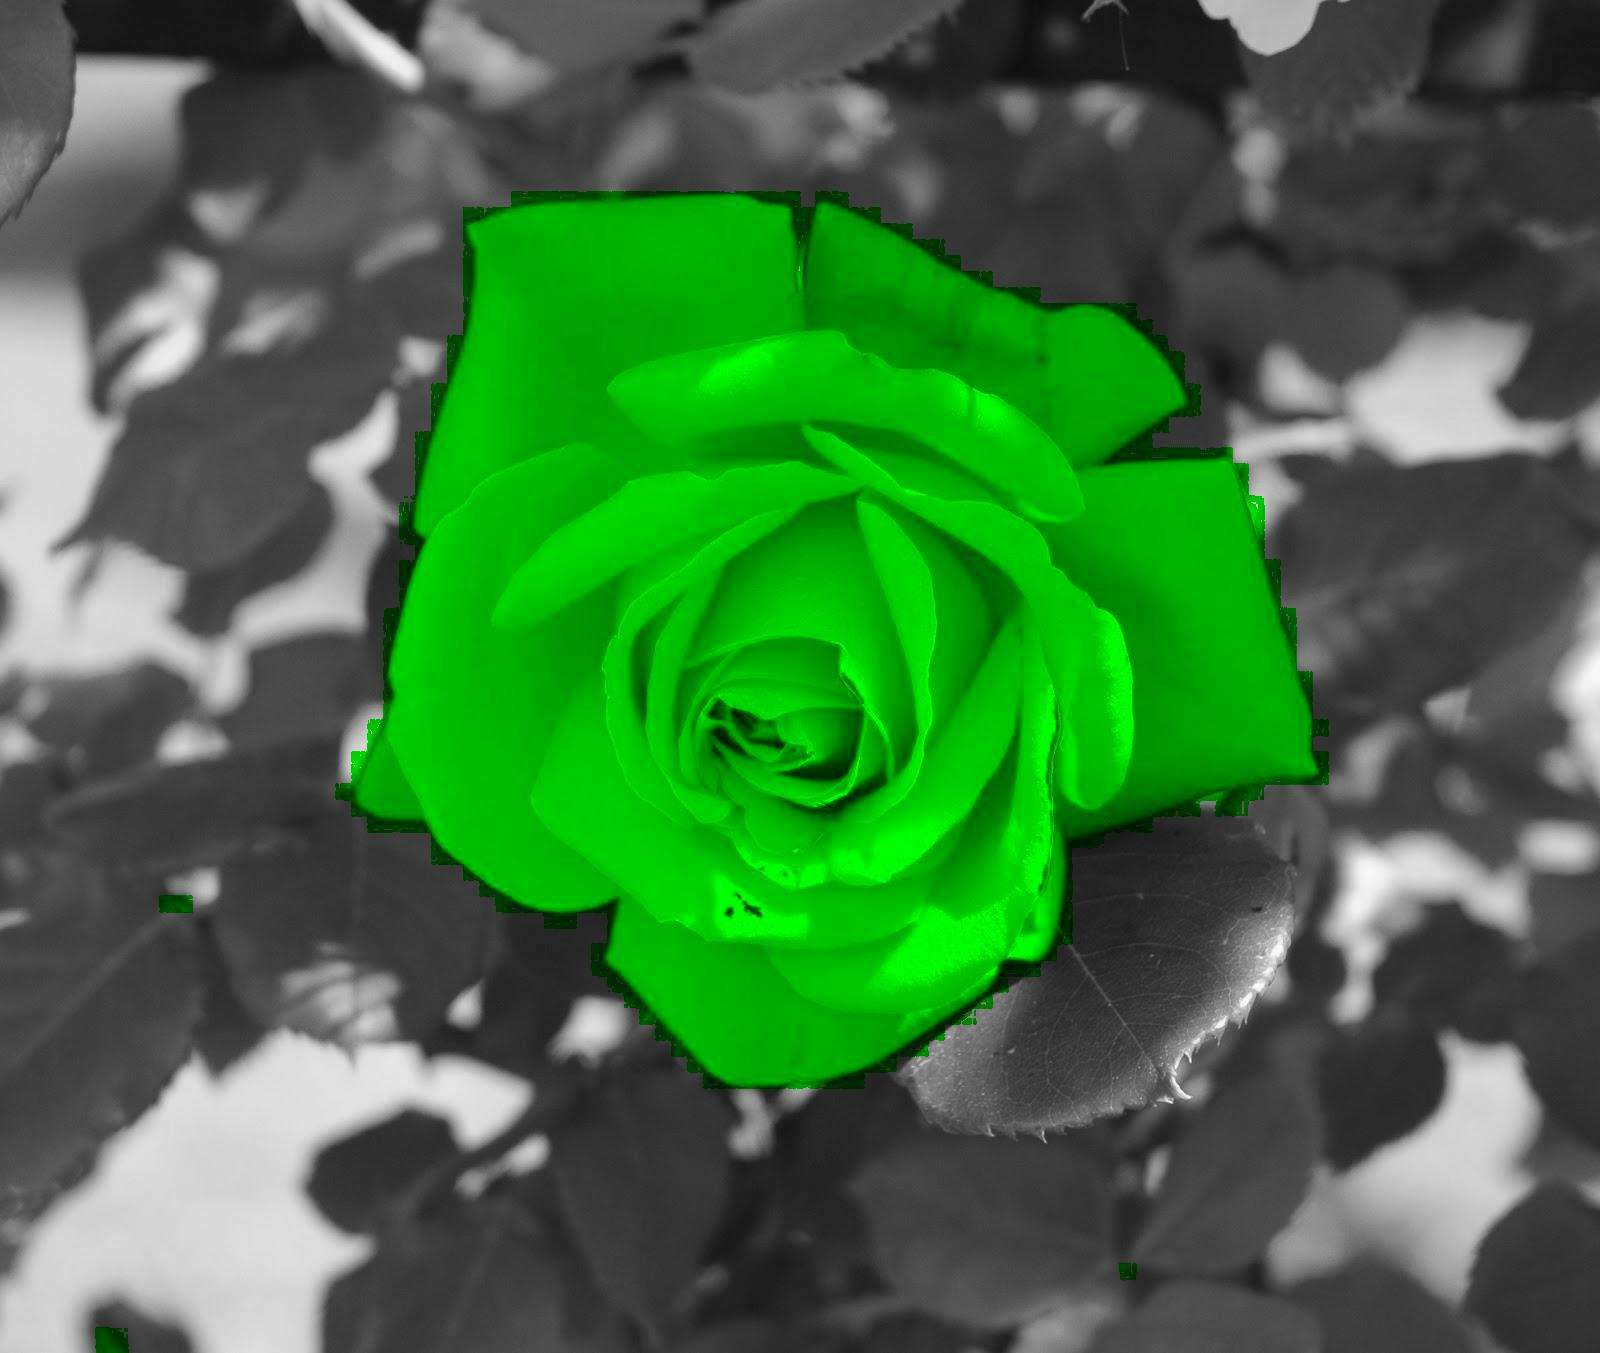
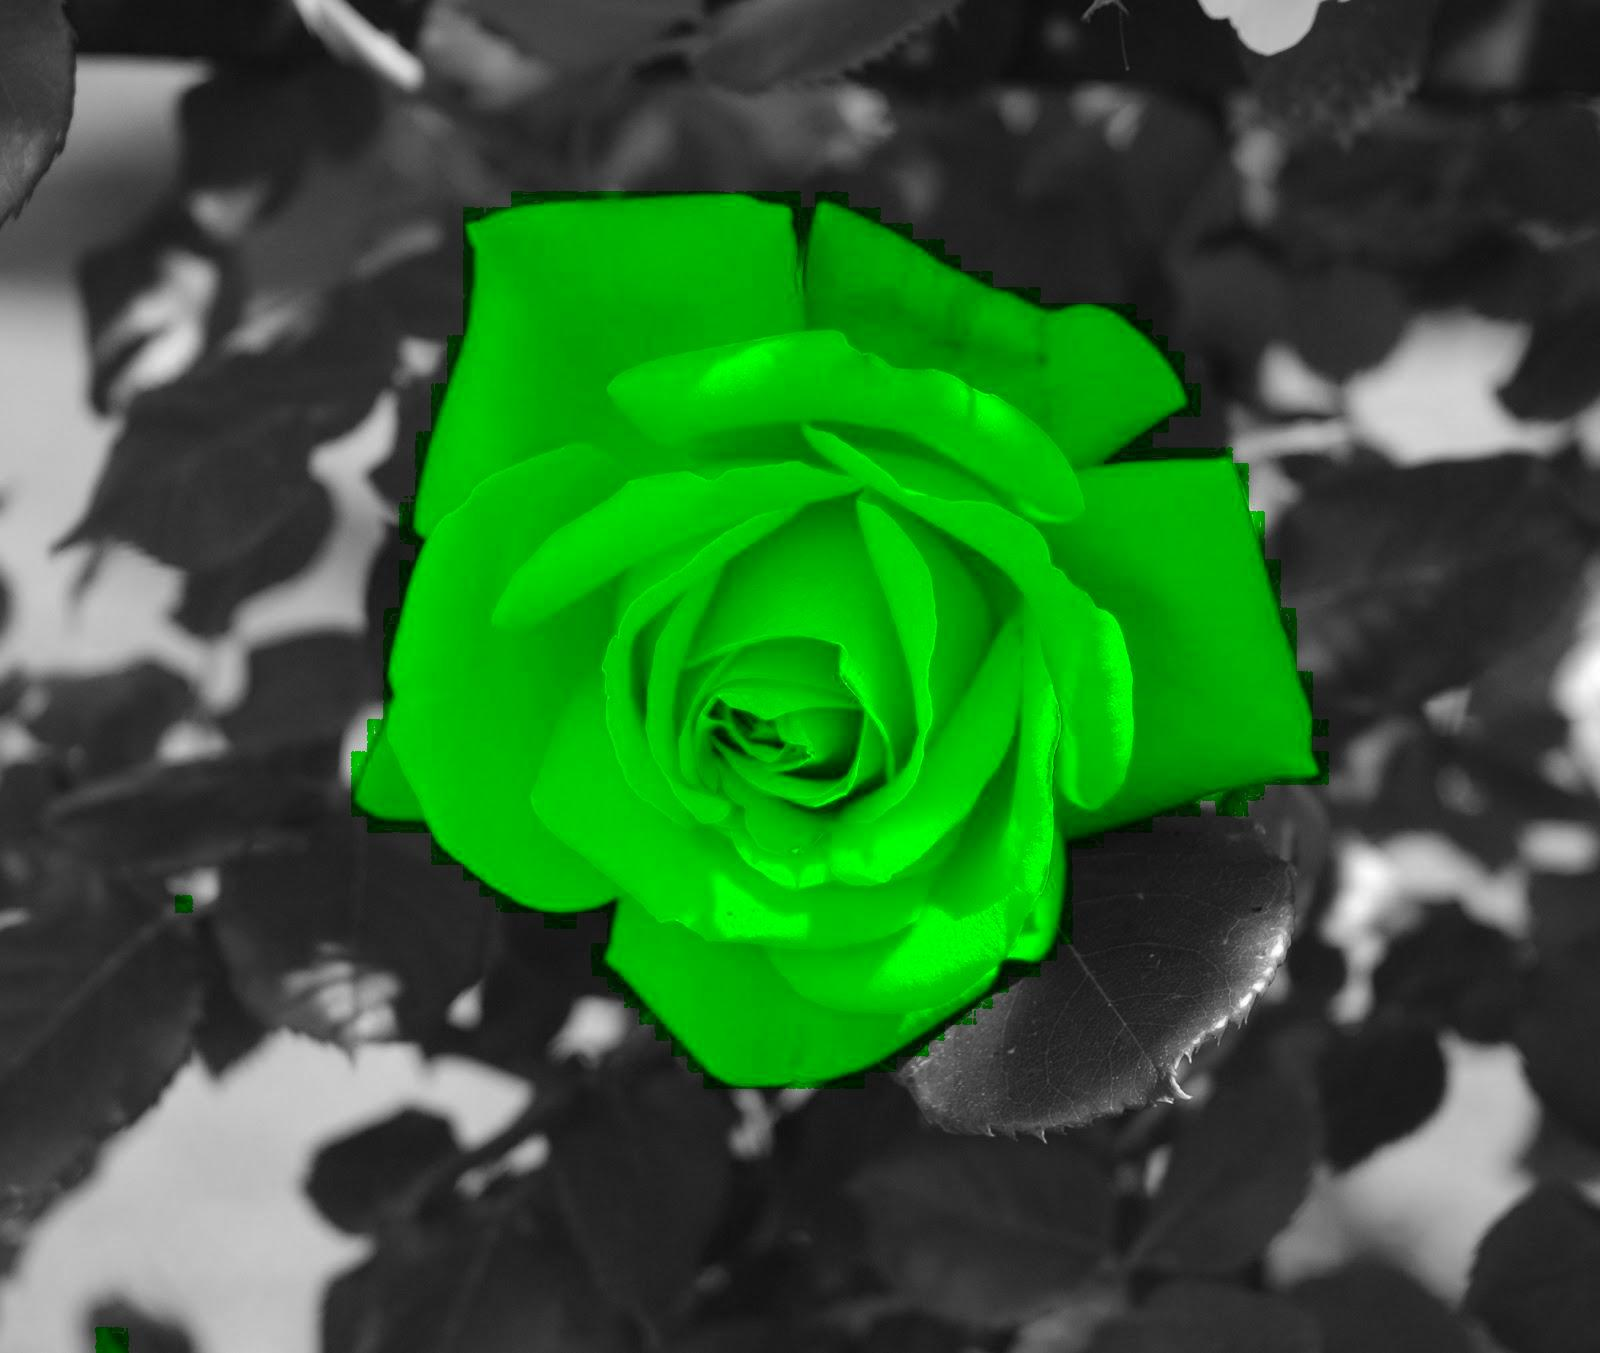
correções

diff --git a/Exercicio1/src/Num3.java b/Exercicio1/src/Num3.java
@@ -29,11 +29,11 @@ public class Num3 {
 					int g = color.getGreen();
 					int b = color.getBlue();
 					
-					double difrg = Double.valueOf(r)/Double.valueOf(g);
-					double difrb = Double.valueOf(r)/Double.valueOf(b);
+					double difrg = (double) r/g;
+					double difrb = (double) r/b;
 					
 					if (difrg < 1.6) {
-						double l = (0.21*Double.valueOf(r) + 0.7*Double.valueOf(g) + 0.07*Double.valueOf(b));
+						double l = (r + g + b)/3;
 						
 						int luminosity = (int) l;
 						
@@ -43,7 +43,7 @@ public class Num3 {
 					}
 					
 					else if (difrb < 1.5) {
-						double l = (0.21*Double.valueOf(r) + 0.7*Double.valueOf(g) + 0.07*Double.valueOf(b));
+						double l = (r + g + b)/3;
 						
 						int luminosity = (int) l;
 						
